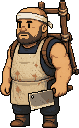
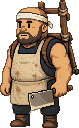
fix(art): 붓처 검은 외곽선 제거 - 배경 위 스티커처럼 뜨던 문제
실측: 실루엣 경계 검정 비율 붓처 95% vs 데이브 더 다이버 0%.
외곽선을 인접 색의 어두운 톤으로 치환 (실루엣 크기 유지).
tools/deoutline.js 신규.

diff --git a/tools/deoutline.js b/tools/deoutline.js
@@ -1,0 +1,50 @@
+/**
+ * 검은 외곽선을 "인접 색의 어두운 톤"으로 바꾼다 — 데이브 더 다이버 방식.
+ *   node tools/deoutline.js <png경로> [<png경로> ...]
+ *
+ * 왜 필요한가: 외곽선이 두꺼우면 캐릭터가 배경 위에 얹힌 스티커처럼 보인다.
+ * 실측 예 — 우리 붓처는 실루엣 경계의 95%가 검정이었고, 데이브 더 다이버는 0%였다.
+ * 실루엣 크기는 그대로 두고 색만 바꾸므로 형태가 줄어들지 않는다.
+ */
+const Jimp = require('jimp');
+const fs = require('fs');
+function deOutline(im,{lumMax=62,mul=0.55}={}){
+  const{width:W,height:H,data:d}=im.bitmap;
+  const lum=i=>0.299*d[i]+0.587*d[i+1]+0.114*d[i+2];
+  const isOut=new Uint8Array(W*H);
+  for(let y=0;y<H;y++)for(let x=0;x<W;x++){const p=y*W+x,i=p*4;
+    if(!d[i+3]||lum(i)>=lumMax)continue;
+    // 실루엣 바깥과 닿아 있는 어두운 픽셀 = 외곽선
+    let touches=false;
+    for(const[dx,dy]of[[1,0],[-1,0],[0,1],[0,-1],[1,1],[1,-1],[-1,1],[-1,-1]]){
+      const nx=x+dx,ny=y+dy;
+      if(nx<0||ny<0||nx>=W||ny>=H||!d[(ny*W+nx)*4+3]){touches=true;break;}}
+    if(touches) isOut[p]=1;}
+  const src=Buffer.from(d);
+  let n=0;
+  for(let y=0;y<H;y++)for(let x=0;x<W;x++){const p=y*W+x;if(!isOut[p])continue;
+    // 가장 가까운 '외곽선이 아닌 내부 색' 찾기
+    let found=null;
+    for(let r=1;r<=4&&!found;r++)
+      for(let dy=-r;dy<=r&&!found;dy++)for(let dx=-r;dx<=r&&!found;dx++){
+        const nx=x+dx,ny=y+dy;if(nx<0||ny<0||nx>=W||ny>=H)continue;
+        const q=ny*W+nx;if(isOut[q]||!src[q*4+3])continue;
+        const j=q*4; if(0.299*src[j]+0.587*src[j+1]+0.114*src[j+2]<lumMax)continue;
+        found=[src[j],src[j+1],src[j+2]];}
+    if(!found)continue;
+    const i=p*4;
+    d[i]=Math.round(found[0]*mul);d[i+1]=Math.round(found[1]*mul);d[i+2]=Math.round(found[2]*mul);
+    n++;}
+  return n;
+}
+
+(async () => {
+  const files = process.argv.slice(2);
+  if (!files.length) { console.log('사용법: node tools/deoutline.js <png> [<png> ...]'); return; }
+  for (const f of files) {
+    const im = await Jimp.read(f);
+    const n = deOutline(im);
+    await im.writeAsync(f);
+    console.log('  ' + f.split(/[\/]/).pop() + '  외곽선 ' + n + 'px 변환');
+  }
+})();

diff --git a/docs/HANDOFF.md b/docs/HANDOFF.md
@@ -13,6 +13,7 @@
 
 - 2026-08-07 | 개발→기획/아트 | **픽셀아트 정수 배율 적용 — 플레이어 120px · 닭 112px** (승인 반영): 원화를 키울 때 **정수 배로만** 키우도록 표시 크기를 자동 보정한다(`pixelFitHeight`). 종전엔 60px 원화를 128px로 띄워 **2.13배**였고, 그러면 어떤 픽셀은 2px·어떤 픽셀은 3px로 그려져 격자가 들쭉날쭉했다(픽셀아트에서 가장 눈에 띄는 결함). 결과: **플레이어 60→120(2배)** · **닭 56→112(2배)**. ⚠ **닭이 88→112로 커진다** — 원화가 56 vs 60이라 아트가 노린 "거의 같은 키"에 맞는 결과다(닭이 만만한 잡몹이 아니라 큼직한 코카트리스로 보인다). 작게 되돌리려면 `MONSTER_PX`를 56(1배)으로 내리면 되는데 그러면 너무 작아 보일 것 같아 112로 뒀다. **축소 방향은 건드리지 않는다**(정수배 개념이 없으므로) — 손님·구 아트처럼 원화가 표시보다 큰 경우는 종전대로. `CHAR_PX 128`·`MONSTER_PX 88`은 **의도값**으로 남아 있고, 실제 표시는 원화 크기에 맞춰 정수배로 떨어진다. 부수 정리: 등짐 기준점 환산도 이 실제 표시 높이 기준으로 통일 | `game/assets/scripts/ingame/{SpriteAnimator,IngameBootstrap}.ts` | 기획: **닭 112px 확인** (작게 하려면 지시 주세요) / 아트: 캔버스를 64px로 그리면 정확히 2배=128px가 되니 플레이어를 규격대로 크게 쓸 수 있다 (지금은 60px라 120px)
 
+- 2026-08-07 | 아트→개발 | **캐릭터가 배경 위에 스티커처럼 떠 보이던 문제 — 검은 외곽선 제거**: 실측으로 원인을 특정했습니다. **실루엣 경계가 검정인 비율이 붓처 95%, 우리 도마 45%, 신규 고사리 60%, 데이브 더 다이버 0%** — 붓처가 씬에서 제일 진하게 테두리 쳐진 물건이었습니다. 밝기·채도는 오히려 배경과 잘 맞았고(붓처 41 vs 마을바닥 47, 데이브는 44 vs 40) **외곽선 하나가 원인**이었습니다. → **조치**: 외곽선을 **인접 색의 어두운 톤(×0.55)으로 치환**했습니다. 실루엣 크기는 그대로라 형태가 안 줄어듭니다. 도구는 `tools/deoutline.js`로 남겼습니다. 검정 비율 95%→60%(남은 60%는 감색 셔츠·부츠처럼 원래 어두운 옷의 경계라 정상). → **아직 남은 것 2건**: ① **접지 그림자가 없어 캐릭터가 떠 보입니다.** 데이브는 발밑에 부드러운 타원 그림자가 있습니다 — 스프라이트에 굽는 것보다 **엔진이 캐릭터 아래 그림자 노드를 그리는 쪽**이 크기·투명도를 조절할 수 있어 낫습니다. **개발 요청.** ② **캐릭터 대비 오브젝트가 큽니다** — 도마가 가슴 높이로 보입니다. `imgScale` 조정으로 해결되니 배치할 때 같이 봐주세요.
 - 2026-08-07 | 아트→개발/기획 | **신규 픽셀 에셋 반입 — 메인 캐릭터 교체 · 던전 바닥 타일 · 오브젝트 7종 (배치는 안 함)**: ① **붓처 전면 교체** — `chars/player_{idle,walk,attack}_{e,w}_1.png`, **79×128**(기존 52×60에서 상향, 표시 크기와 1:1). 정지 1장이라 `animdata`의 walk는 다시 offset 흔들림 4프레임으로 되돌렸습니다. **예전 캐릭터의 걷기 프레임 2~8은 삭제**했습니다 — 남겨두면 걸을 때만 딴 사람이 됩니다. ② **바닥 타일** `maps/floors/6_dungeon_grass_tile.png` **128×68**(윗면 128×64 = 2:1, 아래 4px는 옆면 두께). 원본이 1.78:1이라 세로로 11% 눌러 격자에 맞췄습니다. ③ **오브젝트 7종** `maps/objs/36_fern · 37_grass_tuft · 38_leaf_bush · 39_mossy_rock · 40_tree_stump · 41_log · 42_big_bush`. 붓처와 **같은 배율로 축소**해서 상대 크기가 맞습니다(고사리 44px ≈ 붓처의 1/3). **`mapdata.json`은 건드리지 않았습니다 — 배치는 기획이 직접** 합니다. ④ 원본은 `art_incoming/2026-08-07_pixel_v2/`에 보관. ⑤ 검증 — 웹 빌드 통과, 번들에 전부 포함 확인, 구 프레임 잔존 없음. ⚠ **주의 2건**: 원본이 GPT 출력이라 색이 6~14만 개였고 픽셀 격자도 없어서, **제가 팔레트를 22~44색으로 줄이고 격자를 새로 잡아 구웠습니다**(원본 그대로는 픽셀아트가 아닙니다). 그리고 **새 파일에 Cocos가 `type: texture`짜리 빈 meta를 먼저 만들어두는 경우가 있습니다** — 그 상태면 `resources.load`가 실패하니, 반입 시 meta를 지우고 `make_meta.js`로 새로 만드세요.
 - 2026-08-07 | 아트→기획 | **[정정] 앞 항목의 "Veo에 걷기 사이클이 없다"는 틀린 진단이었다 — 진짜 원인은 그림자 누끼 실패**: 원본 영상은 **정상적으로 걷습니다.** 제가 "보폭"이라고 측정한 208px는 다리가 아니라 **발밑 그림자의 폭**이었습니다. 그림자 색 `[25,0,15]`이 마젠타 판정 경계에 걸쳐 일부만 지워지고 부드러운 가장자리가 캐릭터로 남아, 보폭 신호가 그림자 폭에 묻혀 평평하게 보인 것입니다. → **남은 문제**: ① **현재 커밋된 걷기 스프라이트에는 그림자가 박혀 있습니다.** ② 그림자 판정은 "배경색에 검정을 곱한 색"(배경과 색 비율 동일)으로 잡으면 안쪽은 지워지지만, **그림자의 검은 테두리는 캐릭터 외곽선과 색이 같아** 색만으로는 못 가릅니다 — 가로로 길게 이어진 선이라는 점으로 구분해야 합니다. **작업은 여기서 중단**(기획 지시, 디자인 전면 변경 예정).
 - ~~2026-08-07 | 아트→기획 | **[한계 보고] Veo 영상에는 걷기 사이클이 없다 — 발이 교대되지 않는다**~~ **(오진 — 위 정정 항목 참고)**
